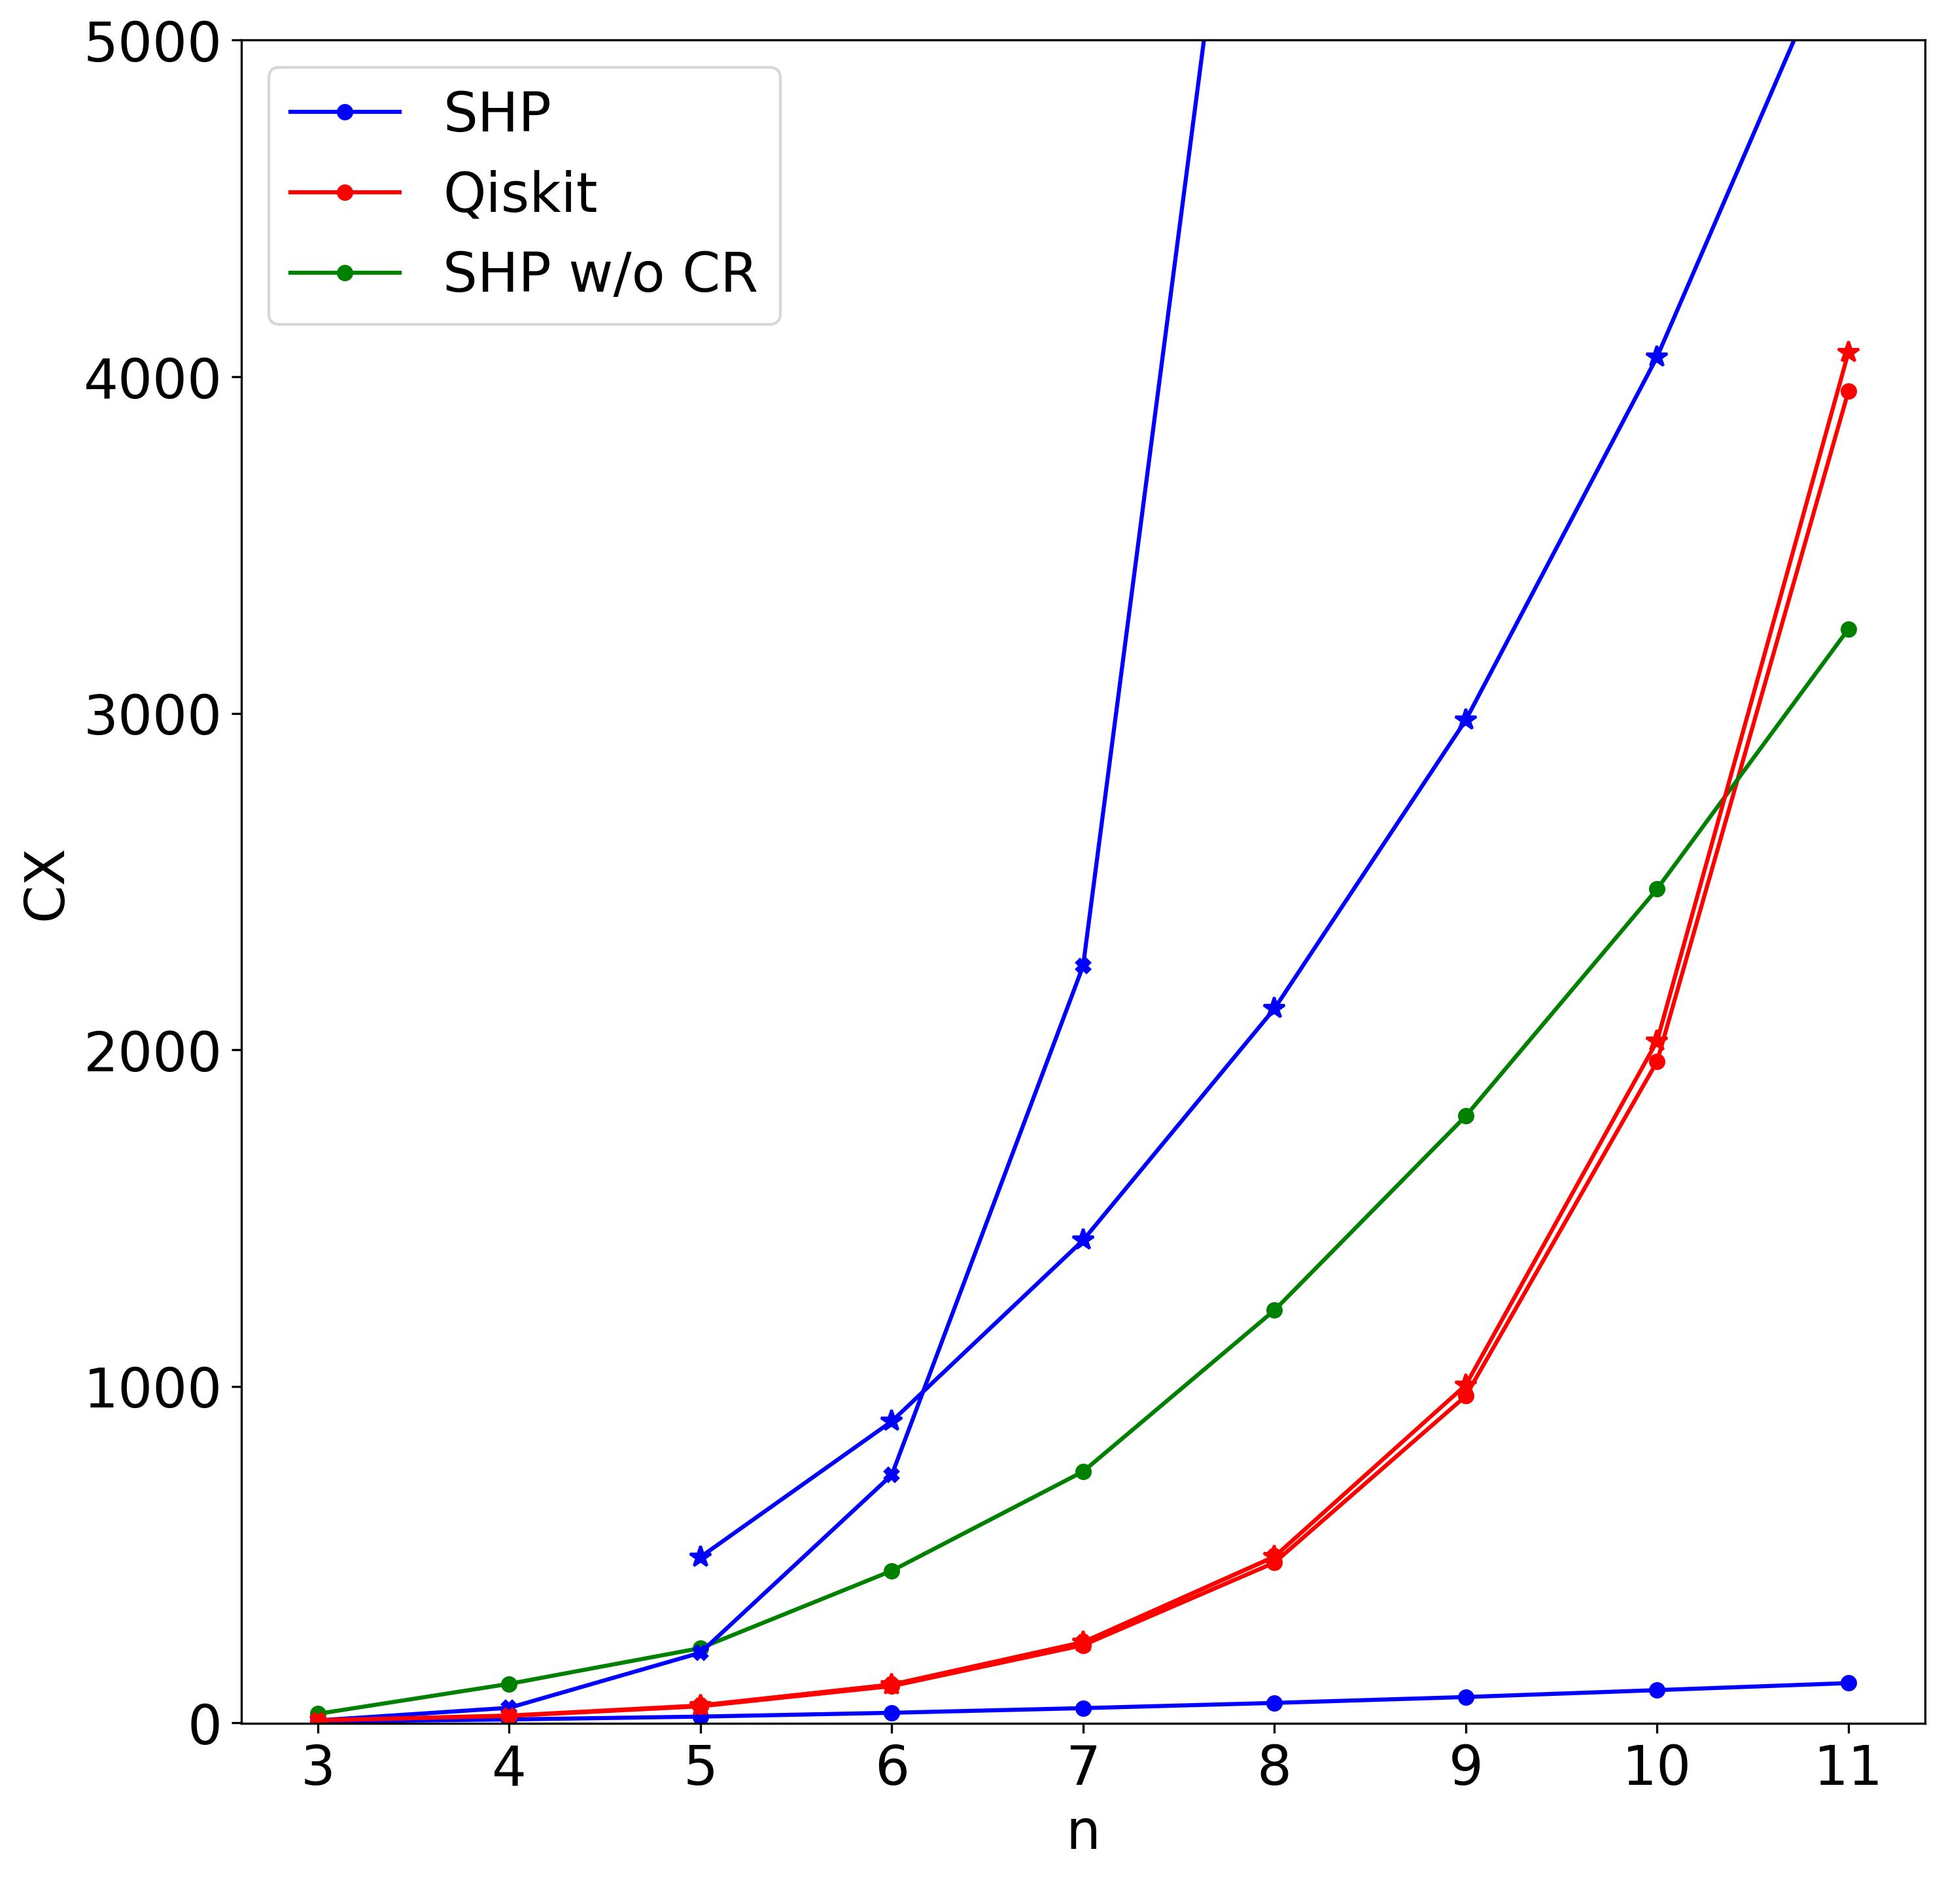
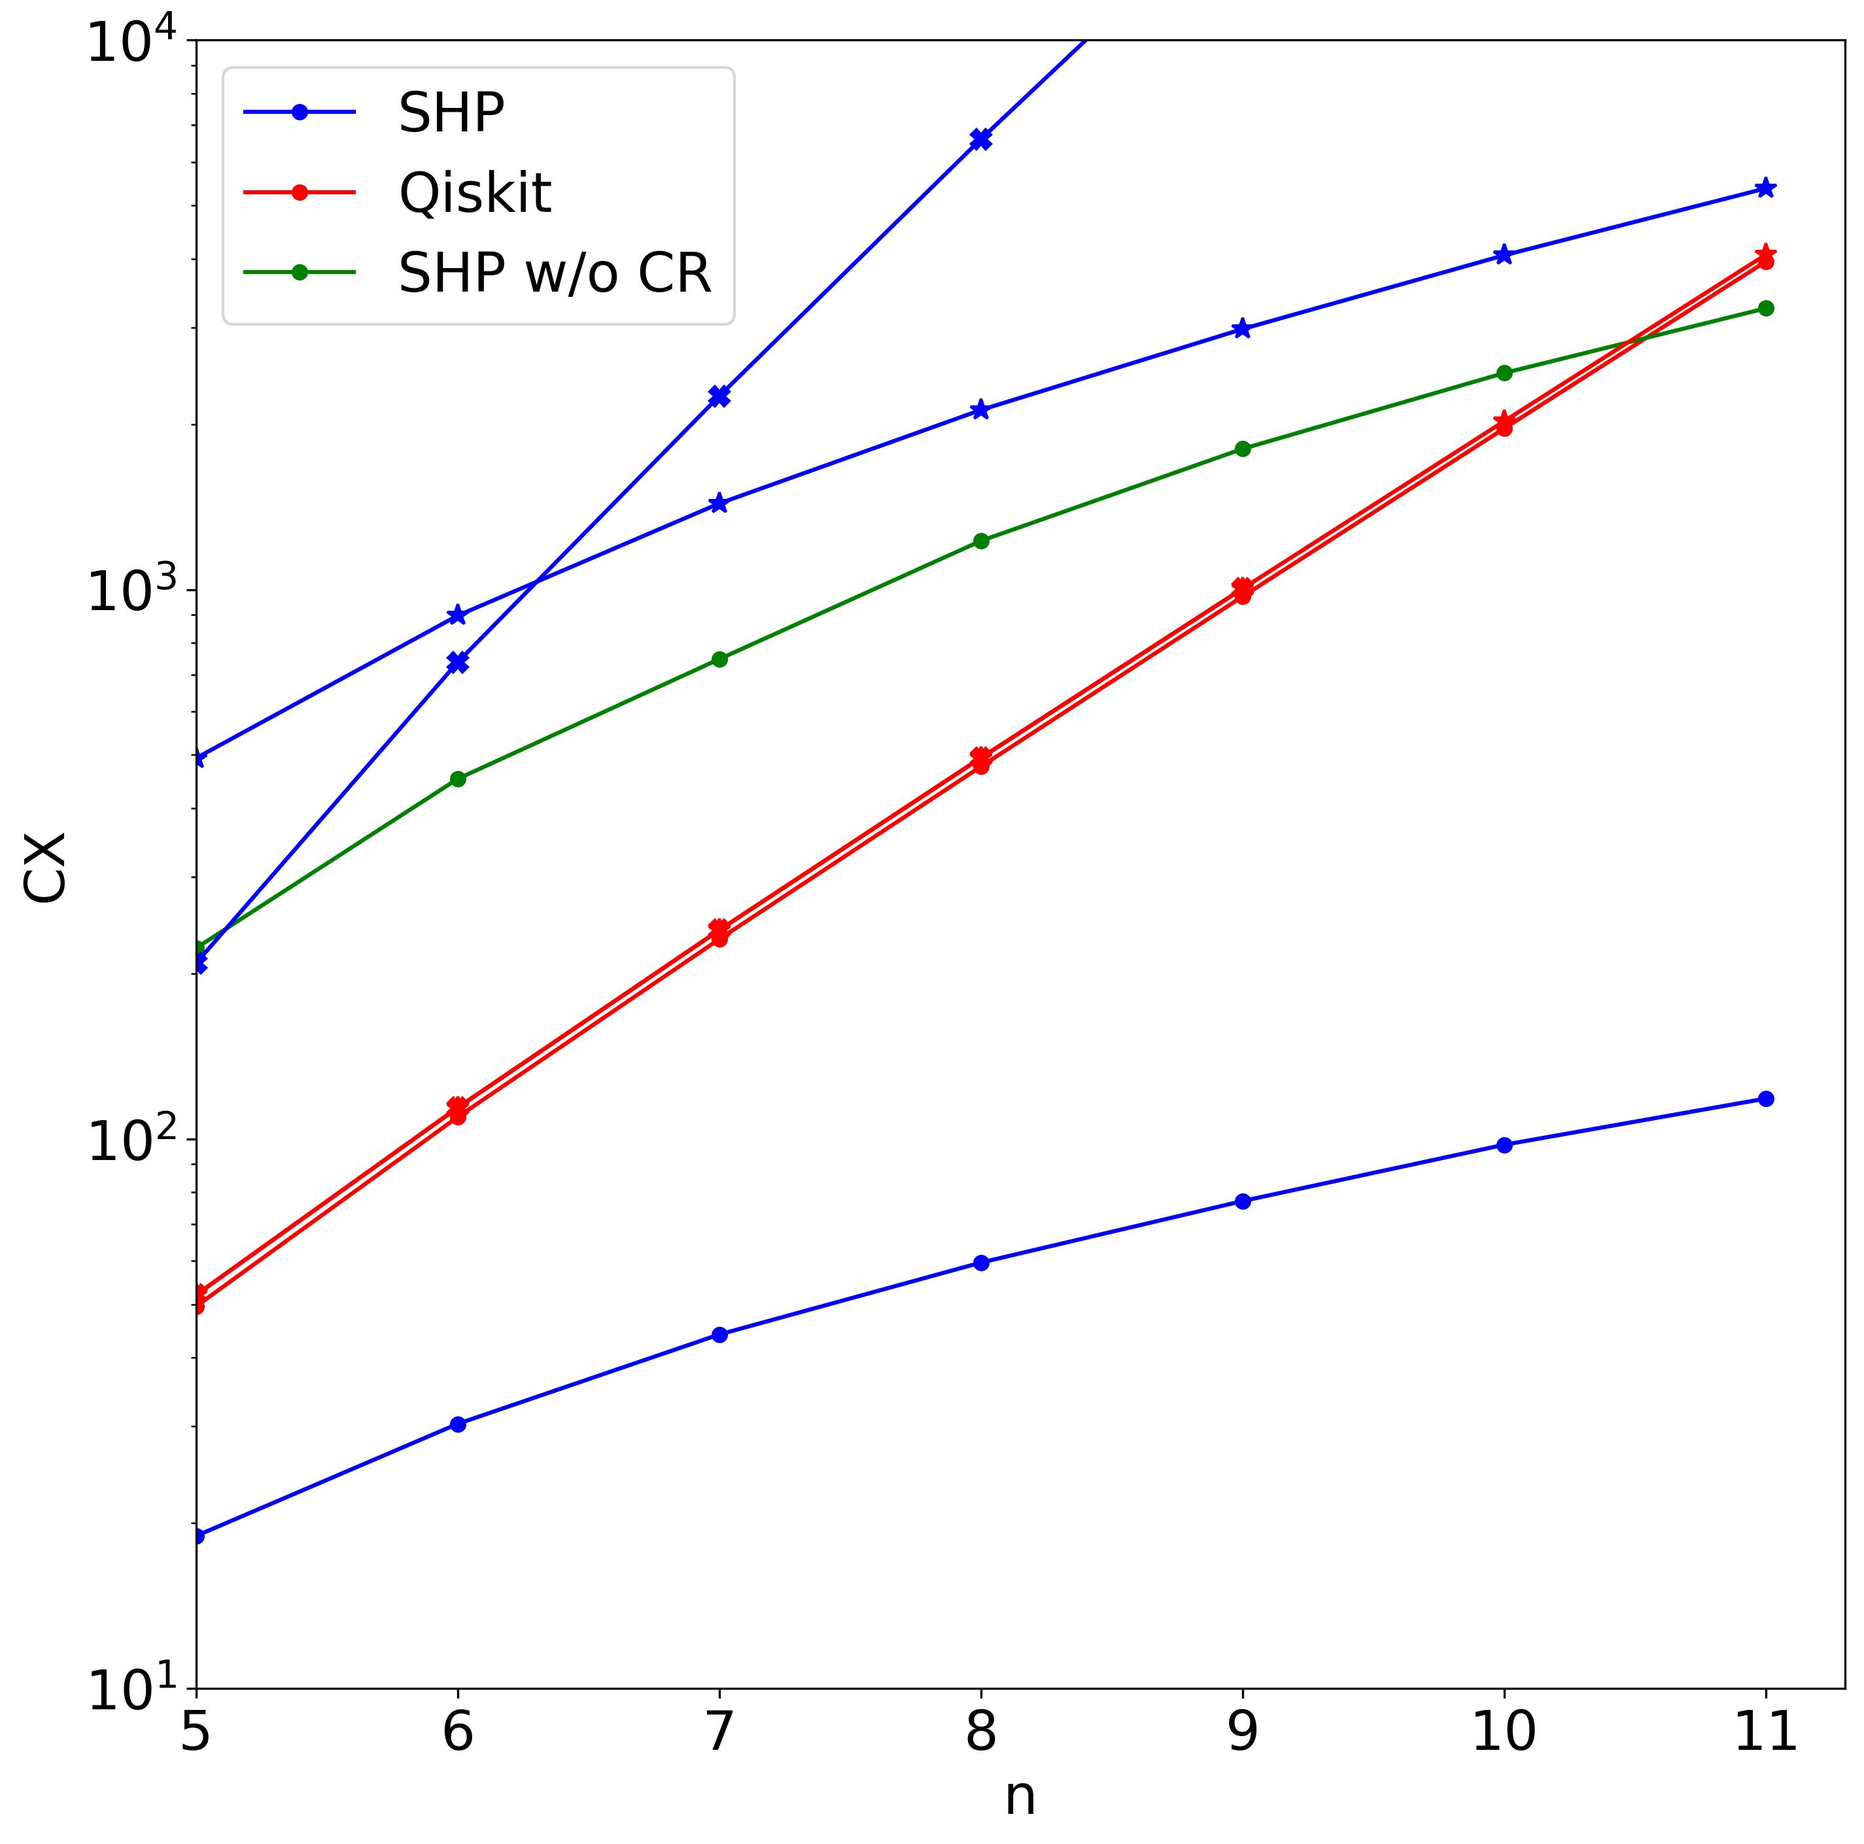
Updates cx count plot

diff --git a/plots/quantum_walks.py b/plots/quantum_walks.py
@@ -16,13 +16,13 @@ def plot_cx_count_vs_num_qubits_line(method: str, num_qubits: Sequence[int], num
         data.append(np.mean(df[method]))
 
     line = Line(num_qubits, data, color=color_ind, marker=marker_ind, label=label)
-    plot_general([line], ("n", "CX"), boundaries=(None, None, None, 5000), figure_id=figure_id)
+    plot_general([line], ("n", "CX"), boundaries=(5, None, 10, 10 ** 4), figure_id=figure_id)
 
 
 def plot_cx_count_vs_num_qubits():
     methods_all = [["shp_reduced", "qiskit", "shp"], ["shp_reduced", "qiskit"], ["shp_reduced", "qiskit"]]
     labels_all = [["SHP", "Qiskit", "SHP w/o CR"], None, None]
-    num_qubits_all = [np.array(range(3, 12)), np.array(range(5, 12)), np.array(range(3, 9))]
+    num_qubits_all = [np.array(range(5, 12)), np.array(range(5, 12)), np.array(range(5, 10))]
     num_amplitudes_all = [num_qubits_all[0], num_qubits_all[1] ** 2, 2 ** (num_qubits_all[2] - 1)]
     figure_id = 0
 
@@ -34,6 +34,7 @@ def plot_cx_count_vs_num_qubits():
         for method_ind, method in enumerate(methods):
             label = labels[method_ind] if labels is not None else "_nolabel_"
             plot_cx_count_vs_num_qubits_line(method, num_qubits, num_amplitudes, method_ind, density_ind, label, figure_id)
+    plt.yscale("log")
     save_figure()
 
 

diff --git a/plots/general.py b/plots/general.py
@@ -12,7 +12,7 @@ from numpy import ndarray
 colors = [(0, 0, 1), (1, 0, 0), (0, 0.5, 0), (0, 0, 0), (0, 0.75, 0.75), (0.75, 0, 0.75), (0.75, 0.75, 0)]
 colors += distinctipy.get_colors(10, colors + [(1, 1, 1)])
 markers = 'o*Xvs'
-marker_sizes = {'o': 5, '*': 8, 'X': 5, 'v': 5, 's': 5, 'none': 0}
+marker_sizes = {'o': 5, '*': 8, 'X': 7, 'v': 5, 's': 5, 'none': 0}
 styles = ['-', '--']
 
 
